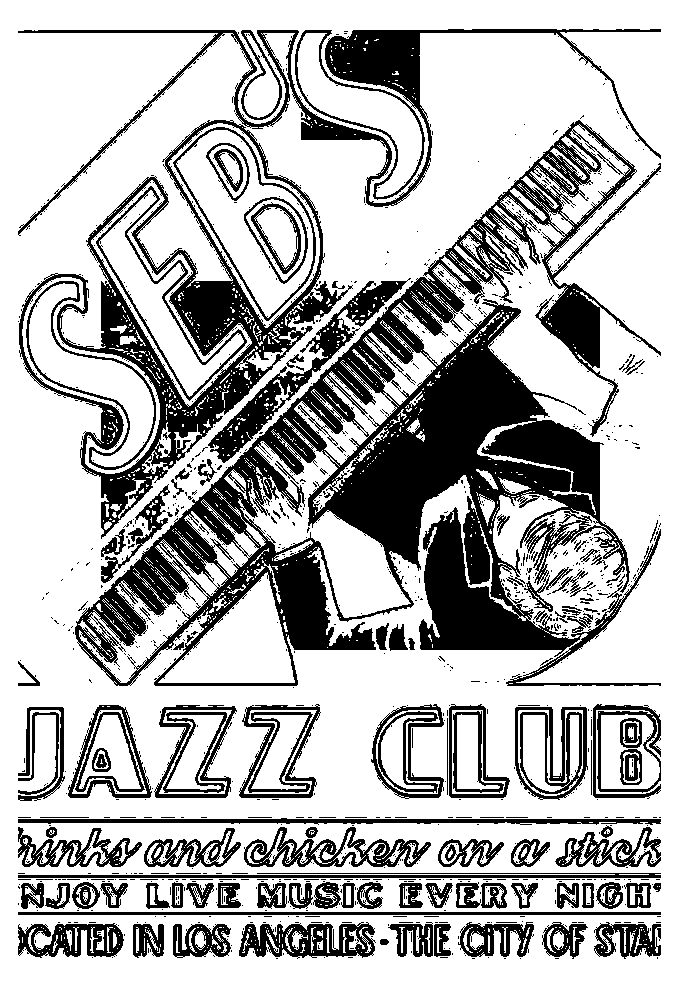
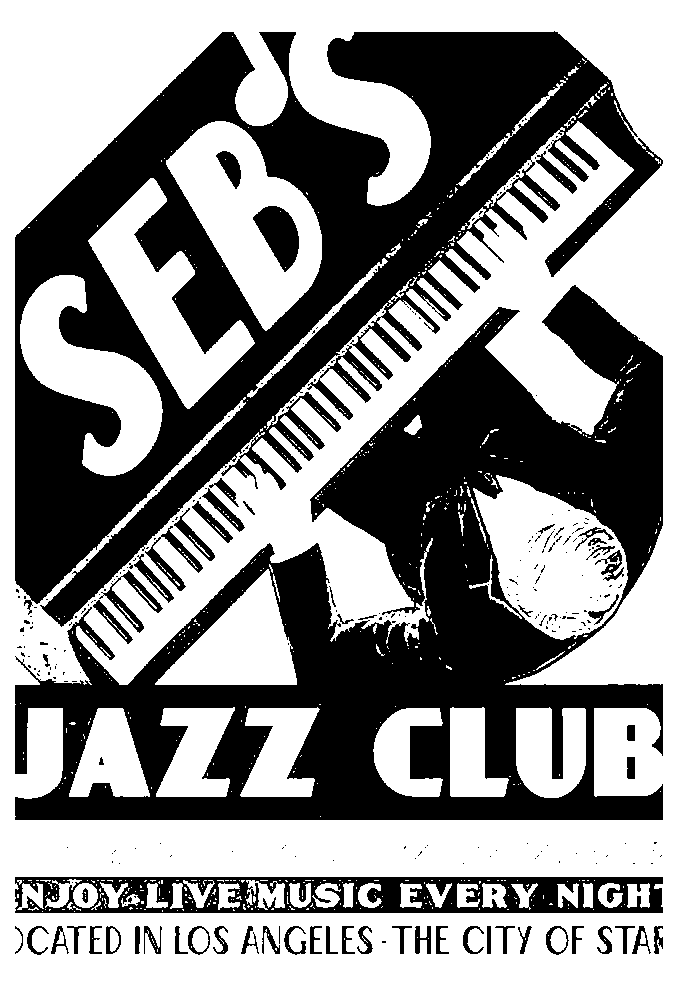
Darken the grand piano body under SEB'S to solid black with high ink opacity

diff --git a/frontend/src/components/LiveSessionCard.tsx b/frontend/src/components/LiveSessionCard.tsx
@@ -342,7 +342,7 @@ const styles = StyleSheet.create({
   bandSilhouettePhoto: {
     width: '100%',
     height: '100%',
-    opacity: 0.82,
+    opacity: 0.95,
   },
   ticketHeader: {
     marginBottom: 8,
